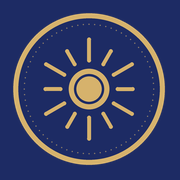
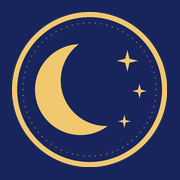
Ícono del navegador: luna con estrellas

diff --git a/index.html b/index.html
@@ -18,10 +18,10 @@
 <link rel="preconnect" href="https://fonts.gstatic.com" crossorigin>
 <link href="https://fonts.googleapis.com/css2?family=Bodoni+Moda:ital,opsz,wght@0,6..96,400;0,6..96,500;1,6..96,400&family=Jost:ital,wght@0,300;0,400;0,500;1,300&display=swap" rel="stylesheet">
 <link rel="stylesheet" href="styles.css?v=45">
-<link rel="icon" href="/favicon.ico?v=2" sizes="48x48">
-<link rel="icon" type="image/png" sizes="32x32" href="/favicon-32.png?v=2">
-<link rel="icon" type="image/png" sizes="192x192" href="/favicon-192.png?v=2">
-<link rel="apple-touch-icon" href="/apple-touch-icon.png?v=2">
+<link rel="icon" href="/favicon.ico?v=3" sizes="48x48">
+<link rel="icon" type="image/png" sizes="32x32" href="/favicon-32.png?v=3">
+<link rel="icon" type="image/png" sizes="192x192" href="/favicon-192.png?v=3">
+<link rel="apple-touch-icon" href="/apple-touch-icon.png?v=3">
 </head>
 <body>
 <a class="salto" href="#contenido">Saltar al contenido</a>
@@ -309,13 +309,13 @@
 
 <div class="aviso" id="aviso" role="status" aria-live="polite"></div>
 
-<script src="nube-config.js?v=28"></script>
+<script src="nube-config.js?v=38"></script>
 <script src="nube.js?v=34"></script>
 <script src="mazos-pers.js?v=8"></script>
 <script>if (/^(localhost|127\.0\.0\.1)$/.test(location.hostname)) document.write('<script src="mazos-pers.local.js"><\/script>');</script>
-<script src="cards.js?v=25"></script>
-<script src="menores.js?v=25"></script>
-<script src="sonido.js?v=2"></script>
+<script src="cards.js?v=35"></script>
+<script src="menores.js?v=35"></script>
+<script src="sonido.js?v=3"></script>
 <script src="app.js?v=71"></script>
 </body>
 </html>

diff --git a/admin/index.html b/admin/index.html
@@ -10,18 +10,18 @@
 <link rel="preconnect" href="https://fonts.gstatic.com" crossorigin>
 <link href="https://fonts.googleapis.com/css2?family=Bodoni+Moda:ital,opsz,wght@0,6..96,400;0,6..96,500&family=Jost:wght@300;400;500&display=swap" rel="stylesheet">
 <link rel="stylesheet" href="admin.css?v=6">
-<link rel="icon" href="/favicon.ico?v=2" sizes="48x48">
-<link rel="icon" type="image/png" sizes="32x32" href="/favicon-32.png?v=2">
-<link rel="icon" type="image/png" sizes="192x192" href="/favicon-192.png?v=2">
-<link rel="apple-touch-icon" href="/apple-touch-icon.png?v=2">
+<link rel="icon" href="/favicon.ico?v=3" sizes="48x48">
+<link rel="icon" type="image/png" sizes="32x32" href="/favicon-32.png?v=3">
+<link rel="icon" type="image/png" sizes="192x192" href="/favicon-192.png?v=3">
+<link rel="apple-touch-icon" href="/apple-touch-icon.png?v=3">
 </head>
 <body>
 <div id="app" aria-live="polite"><p class="espera">Cargando el panel…</p></div>
 <div class="aviso" id="aviso" role="status" aria-live="polite"></div>
-<script src="../nube-config.js?v=28"></script>
-<script src="../cards.js?v=25"></script>
-<script src="../menores.js?v=25"></script>
+<script src="../nube-config.js?v=38"></script>
+<script src="../cards.js?v=35"></script>
+<script src="../menores.js?v=35"></script>
 <script src="../mazos-pers.js?v=8"></script>
-<script src="admin.js?v=25"></script>
+<script src="admin.js?v=35"></script>
 </body>
 </html>

diff --git a/terminos.html b/terminos.html
@@ -16,10 +16,10 @@
 <link rel="preconnect" href="https://fonts.gstatic.com" crossorigin>
 <link href="https://fonts.googleapis.com/css2?family=Bodoni+Moda:ital,opsz,wght@0,6..96,400;0,6..96,500;1,6..96,400&family=Jost:ital,wght@0,300;0,400;0,500;1,300&display=swap" rel="stylesheet">
 <link rel="stylesheet" href="styles.css?v=42">
-<link rel="icon" href="/favicon.ico?v=2" sizes="48x48">
-<link rel="icon" type="image/png" sizes="32x32" href="/favicon-32.png?v=2">
-<link rel="icon" type="image/png" sizes="192x192" href="/favicon-192.png?v=2">
-<link rel="apple-touch-icon" href="/apple-touch-icon.png?v=2">
+<link rel="icon" href="/favicon.ico?v=3" sizes="48x48">
+<link rel="icon" type="image/png" sizes="32x32" href="/favicon-32.png?v=3">
+<link rel="icon" type="image/png" sizes="192x192" href="/favicon-192.png?v=3">
+<link rel="apple-touch-icon" href="/apple-touch-icon.png?v=3">
 </head>
 <body class="pagina-legal">
 <header class="barra">
